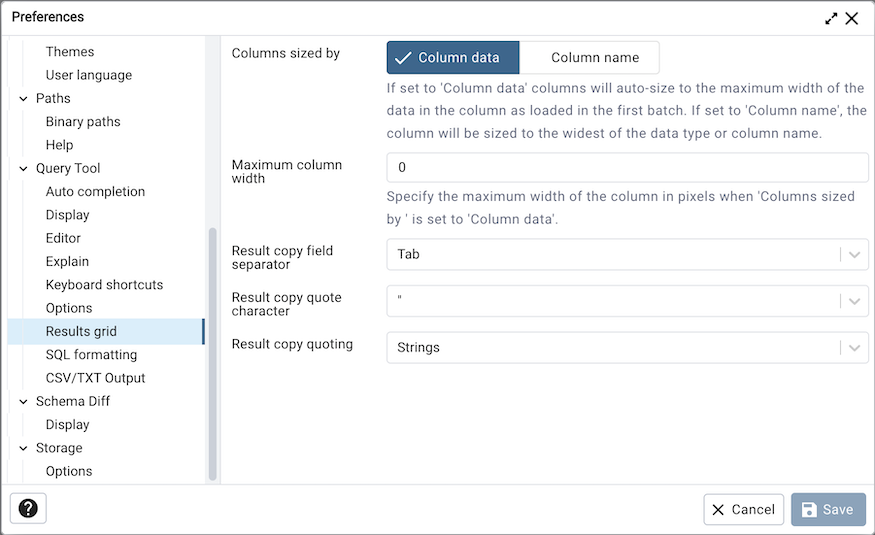
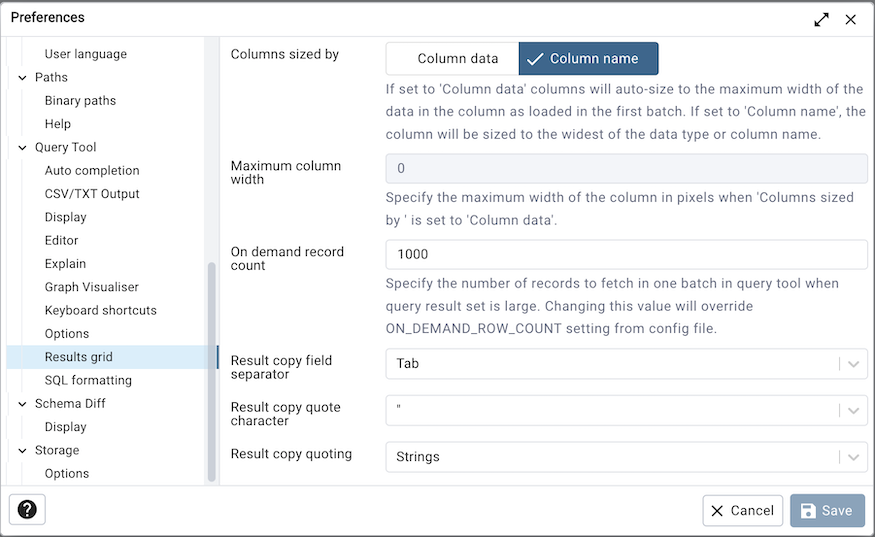
Allow on demand record count setting to be changed per user using preferences. #3275

diff --git a/web/pgadmin/tools/sqleditor/__init__.py b/web/pgadmin/tools/sqleditor/__init__.py
@@ -16,8 +16,7 @@ from urllib.parse import unquote
 from threading import Lock
 
 import json
-from config import PG_DEFAULT_DRIVER, ON_DEMAND_RECORD_COUNT,\
-    ALLOW_SAVE_PASSWORD, SHARED_STORAGE
+from config import PG_DEFAULT_DRIVER, ALLOW_SAVE_PASSWORD, SHARED_STORAGE
 from werkzeug.user_agent import UserAgent
 from flask import Response, url_for, render_template, session, current_app
 from flask import request
@@ -874,6 +873,8 @@ def poll(trans_id):
     additional_messages = None
     notifies = None
     data_obj = {}
+    on_demand_record_count = Preferences.module(MODULE_NAME).\
+        preference('on_demand_record_count').get()
 
     # Check the transaction and connection status
     status, error_msg, conn, trans_obj, session_obj = \
@@ -910,7 +911,7 @@ def poll(trans_id):
                         trans_obj.auto_rollback:
                     conn.execute_void("ROLLBACK;")
 
-            st, result = conn.async_fetchmany_2darray(ON_DEMAND_RECORD_COUNT)
+            st, result = conn.async_fetchmany_2darray(on_demand_record_count)
 
             # There may be additional messages even if result is present
             # eg: Function can provide result as well as RAISE messages
@@ -986,7 +987,7 @@ def poll(trans_id):
                 # means nothing to fetch
                 if result and rows_affected > -1:
                     res_len = len(result)
-                    if res_len == ON_DEMAND_RECORD_COUNT:
+                    if res_len == on_demand_record_count:
                         has_more_rows = True
 
                     if res_len > 0:
@@ -1064,7 +1065,9 @@ def fetch(trans_id, fetch_all=None):
     has_more_rows = False
     rows_fetched_from = 0
     rows_fetched_to = 0
-    fetch_row_cnt = -1 if fetch_all == 1 else ON_DEMAND_RECORD_COUNT
+    on_demand_record_count = Preferences.module(MODULE_NAME).preference(
+        'on_demand_record_count').get()
+    fetch_row_cnt = -1 if fetch_all == 1 else on_demand_record_count
 
     # Check the transaction and connection status
     status, error_msg, conn, trans_obj, session_obj = \
@@ -1082,7 +1085,7 @@ def fetch(trans_id, fetch_all=None):
         else:
             status = 'Success'
             res_len = len(result) if result else 0
-            if fetch_row_cnt != -1 and res_len == ON_DEMAND_RECORD_COUNT:
+            if fetch_row_cnt != -1 and res_len == on_demand_record_count:
                 has_more_rows = True
 
             if res_len:

diff --git a/web/pgadmin/tools/sqleditor/utils/query_tool_preferences.py b/web/pgadmin/tools/sqleditor/utils/query_tool_preferences.py
@@ -15,6 +15,7 @@ from pgadmin.utils.constants import PREF_LABEL_DISPLAY,\
     PREF_LABEL_SQL_FORMATTING, PREF_LABEL_GRAPH_VISUALISER
 from pgadmin.utils import SHORTCUT_FIELDS as shortcut_fields, \
     ACCESSKEY_FIELDS as accesskey_fields
+from config import ON_DEMAND_RECORD_COUNT
 
 
 def register_query_tool_preferences(self):
@@ -290,6 +291,17 @@ def register_query_tool_preferences(self):
             'Specify the maximum width of the column in pixels when '
             '\'Columns sized by \' is set to \'Column data\'.'
         ),
+    )
+
+    self.on_demand_record_count = self.preference.register(
+        'Results_grid', 'on_demand_record_count',
+        gettext("On demand record count"), 'integer', ON_DEMAND_RECORD_COUNT,
+        min_val=100,
+        category_label=PREF_LABEL_RESULTS_GRID,
+        help_str=gettext('Specify the number of records to fetch in one batch '
+                         'in query tool when query result set is large. '
+                         'Changing this value will override '
+                         'ON_DEMAND_ROW_COUNT setting from config file.')
     )
 
     self.sql_font_size = self.preference.register(

diff --git a/web/regression/runtests.py b/web/regression/runtests.py
@@ -569,10 +569,11 @@ def execute_test(test_module_list_passed, server_passed, driver_passed,
         print(str(exc))
         print("Exception in {0} {1}".format(
             threading.current_thread().ident,
-            threading.current_thread().getName()))
+            threading.current_thread().name))
         # Mark failure as true
-        global failure
-        failure = True
+        if 'is being accessed by other users' not in str(exec):
+            global failure
+            failure = True
     finally:
         # Delete web-driver instance
         thread_name = "parallel_tests" + server_passed['name']

diff --git a/docs/en_US/preferences.rst b/docs/en_US/preferences.rst
@@ -440,6 +440,9 @@ preferences for copied data.
 * Specify the maximum width of the column in pixels when 'Columns sized by' is
   set to *Column data*. If 'Columns sized by' is set to *Column name* then this
   setting won't have any effect.
+* Specify the number of records to fetch in one batch in query tool when
+  query result set is large. Changing this value will override
+  ON_DEMAND_ROW_COUNT setting from config file.
 * Use the *Result copy field separator* drop-down listbox to select the field
   separator for copied data.
 * Use the *Result copy quote character* drop-down listbox to select the quote
